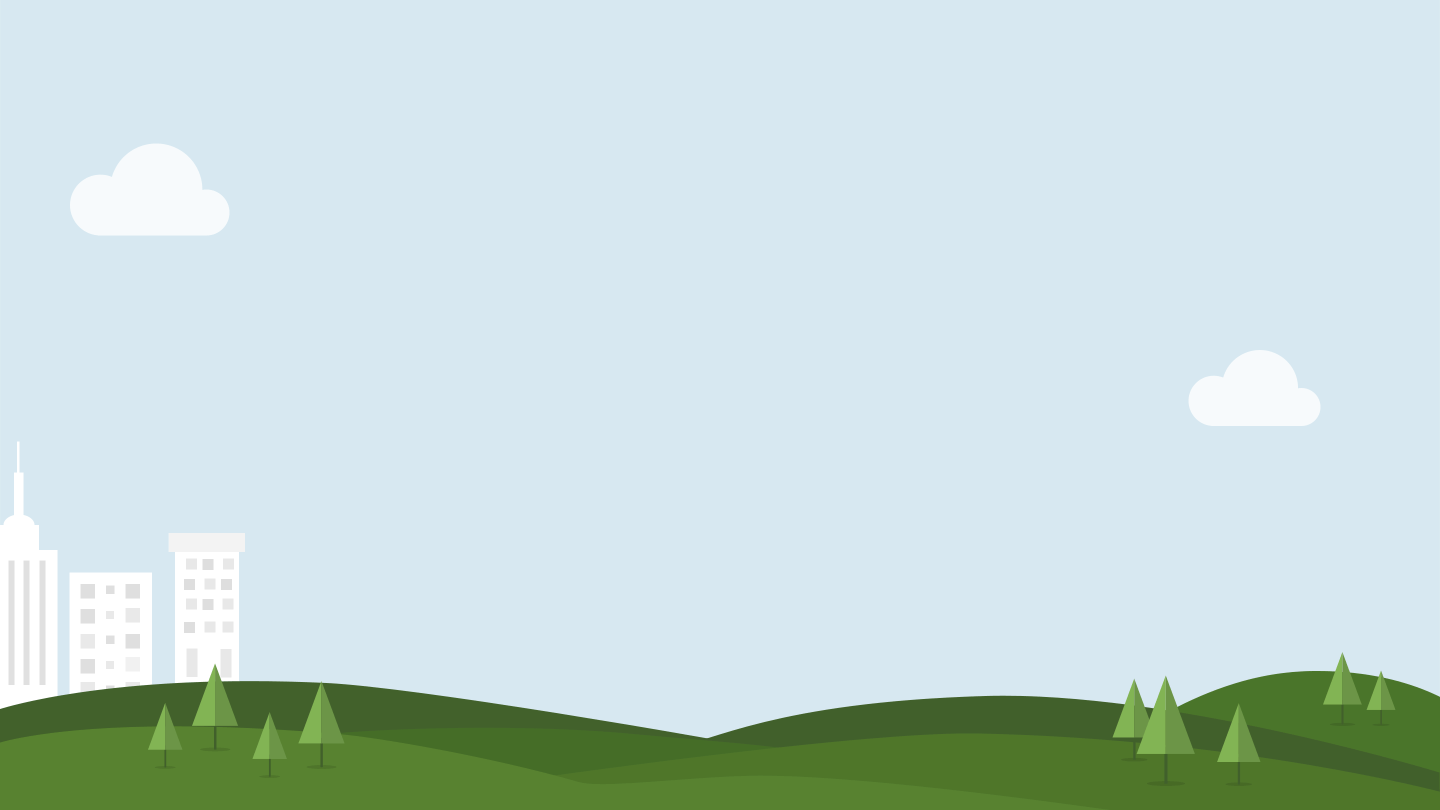
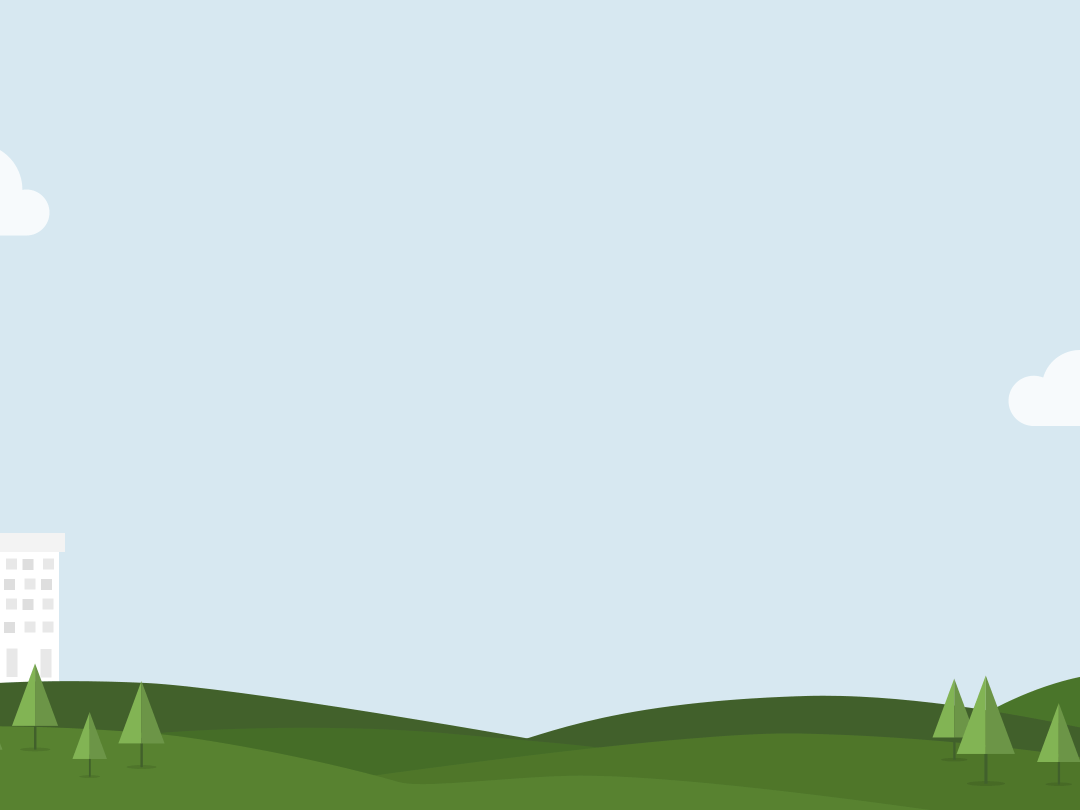
add new js example

diff --git a/website/pzw/html/登录.html b/website/pzw/html/登录.html
@@ -8,16 +8,36 @@
     <link rel="stylesheet" href="../css/global.css" />
     <link rel="stylesheet" href="../css/login.css" />
     <style>
-        body{
+        /*body{
             background: url(../images/login/login-bg.png) no-repeat center top;
             padding-bottom: 50px;
+        }*/
+        html,body{
+          height: 100%;
+        }
+        .bg-box{
+          position: fixed;
+          _position: absolute;
+          top: 0;
+          left: 0;
+          width: 100%;
+          height: 100%;
+          z-index: -1;
+          overflow: hidden;
+        }
+        .bg-panel{
+          position: absolute;
+          width: 100%;
+          height: 100%;
         }
     </style>
 </head>
 <body>
-    <!-- <div class="bg-box" id="bg-box">
-        <img src="../images/login/login-bg.png" alt="" />
-    </div> -->
+    <div class="bg-box" id="bg-box">
+      <div class="bg-panel" id="bg-box">
+        <img src="../images/login/login-bg.png" alt="" id="bg-pic" />
+      </div>
+    </div>
 
     <div class="pzTopPn">
         <div class="pzTopBg"></div>
@@ -221,11 +241,55 @@
 
     </div>
    
-   <script>
-    function loginBg(){
-        var bgBox = document.getElementById("bg-box");
+  <script>
+    // 获取浏览器的可视范围的高
+    function getBrowserHeight(){
+      return bh = document.documentElement.clientHeight || window.innerHeight || document.body.clientHeight;
     }
-   </script> 
+
+    // 获取浏览器的可视范围的宽
+    function getBrowserWidth(){
+      return bw = document.documentElement.clientWidth || window.innerWidth || document.body.clientWidth;
+    }
+
+    var bg_pic = document.getElementById("bg-pic");
+    var img_url = bg_pic.getAttribute("src");
+    var new_img = new Image();
+    new_img.src = img_url;
+
+    var check_pic = function(){
+      if(new_img.width > 0 || new_img.height > 0){
+        clearInterval(set);
+      }
+    }
+
+    var set = setInterval(check_pic,40);
+
+    function test(){
+      getBrowserHeight();
+      getBrowserWidth();
+      if(bh/bw > 0.75){
+        bg_pic.style.width = "auto";
+        bg_pic.style.height = bh + "px";
+        bg_pic.style.marginLeft = - (parseInt(bh/3)*4 - bw)/2 + "px";
+        bg_pic.style.marginTop = 0 + "px";
+      }
+      if(bh/bw < 0.75){
+        bg_pic.style.width = bw + "px";
+        bg_pic.style.height = "auto";
+        bg_pic.style.marginLeft = 0 + "px";
+        bg_pic.style.marginTop = - (parseInt(bw/4)*3 - bh)/2 + "px";
+      }
+    }
+
+
+    setTimeout(test,100);
+
+
+    window.onresize = test;
+
+
+  </script> 
 
 </body>
 </html>

diff --git a/_posts/blog/2014-08-13-js.md b/_posts/blog/2014-08-13-js.md
@@ -133,6 +133,10 @@ alert(typeof(window)) 会得 object
 <img src="../../images/QR/fixed.png" />
 
 
+**登录页背景图随浏览器大小缩放全屏展示**
+
+<a href="../../website/pzw/html/登录.html">登录页背景图随浏览器大小缩放全屏展示</a>
+
 
 
 
